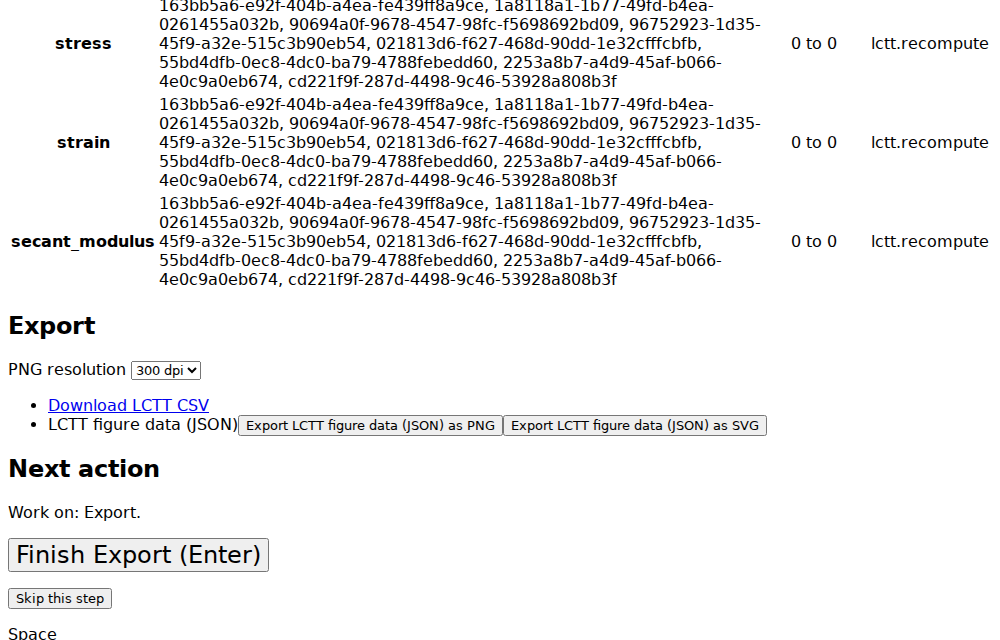
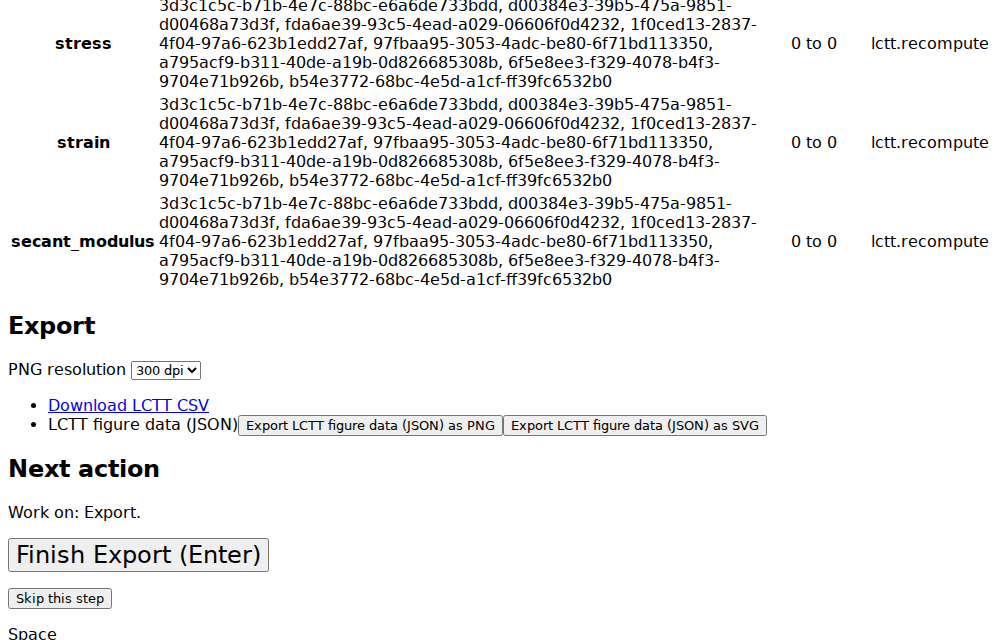
docs(user-guide): move screenshot spec to web/docs-shots

Changed region(s): [[0.155, 0.0, 0.775, 0.4688]]

diff --git a/web/docs-shots/screenshots.spec.ts b/web/docs-shots/screenshots.spec.ts
@@ -1,14 +1,14 @@
 // frob:ticket 921XDAW
-// Captures the UI screenshots embedded in docs/user-guide.md. Opt-in: set SADI_SCREENSHOTS=1 (see docs/e2e.md).
+// Captures the UI screenshots embedded in docs/user-guide.md. Opt-in: set SADI_SCREENSHOTS=1 (see docs/user-guide-screens.md).
 import { resolve } from "node:path";
-import { expect, test } from "./fixtures";
+import { expect, test } from "../e2e/fixtures";
 import {
   acceptWhenSettled,
   expectStep,
   inputsFor,
   openWizard,
   skipSetup,
-} from "./helpers";
+} from "../e2e/helpers";
 
 const out = resolve(import.meta.dirname, "..", "..", "docs", "img", "ui");
 

diff --git a/web/docs-shots/playwright.config.ts b/web/docs-shots/playwright.config.ts
@@ -1,0 +1,14 @@
+// frob:ticket 921XDAW
+// Playwright config for the opt-in docs screenshot spec; reuses the per-test backend fixture from ../e2e.
+import { defineConfig } from "@playwright/test";
+
+/** Config for regenerating docs/img/ui: chromium, one worker, backend per test from ../e2e/fixtures.ts. */
+export default defineConfig({
+  testDir: ".",
+  testMatch: "*.spec.ts",
+  workers: 1,
+  fullyParallel: false,
+  timeout: 540_000,
+  reporter: [["list"]],
+  projects: [{ name: "chromium", use: { browserName: "chromium" } }],
+});

diff --git a/docs/user-guide-screens.md b/docs/user-guide-screens.md
@@ -5,14 +5,14 @@ Status: current
 Parent: [Documentation index](index.md). Companion to the [user guide](user-guide.md). Ticket: ~921XDAW.
 
 The screenshots below come from `sadi --sim` (simulated data, so values are illustrative). They
-are stored under `docs/img/ui/` and regenerated by `web/e2e/screenshots.spec.ts`, which is
+are stored under `docs/img/ui/` and regenerated by `web/docs-shots/screenshots.spec.ts`, which is
 skipped unless `SADI_SCREENSHOTS=1` is set:
 
 ```
-cd web && SADI_SCREENSHOTS=1 npx playwright test -c e2e/playwright.config.ts screenshots
+cd web && SADI_SCREENSHOTS=1 npx playwright test -c docs-shots/playwright.config.ts
 ```
 
-See [e2e](e2e.md) for the Playwright setup.
+It reuses the backend fixture of the [e2e](e2e.md) suite.
 
 ## Setup
 

diff --git a/docs/index.md b/docs/index.md
@@ -4,7 +4,6 @@ Status: current
 
 - [Domain specification](domain.md)
 - [User guide: running a test](user-guide.md)
-- [User guide: screenshots](user-guide-screens.md)
 - [Plan](plan.md)
 - [Protocol](protocol.md)
 - [Open questions](open-questions.md)
